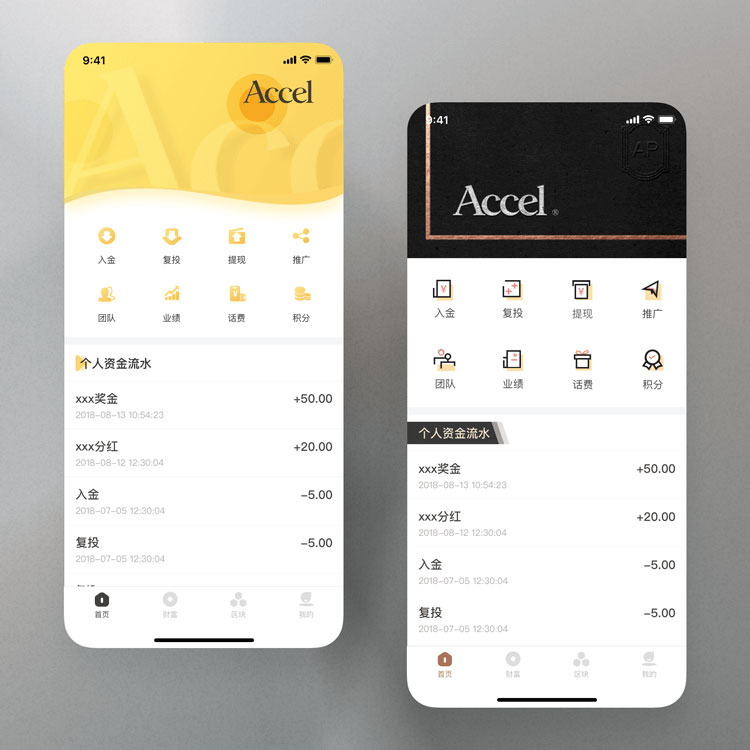
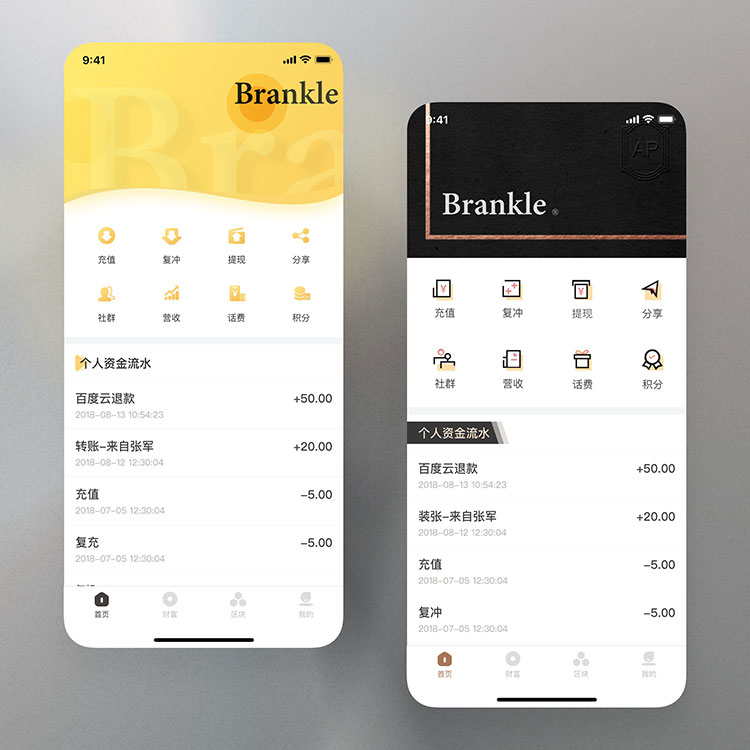
5

diff --git a/index.html b/index.html
@@ -192,16 +192,16 @@ font-weight:700;
                   </li>
                   
                                                       
-<!--                  <li class="slider--item slider--item-5">
+                  <li class="slider--item slider--item-5">
                     <a href="javascript:void(0)" onclick="show('light')">
                       <div class="slider--item-image">
                        <img src="assets/img/work-05.jpg" alt="Accel">
                       </div>
-                      <p class="slider--item-title">Accel</p>
-                      <p class="slider--item-description">Accel是一款金融投资理财产品，帮助普通人融资实现商业目标。</p>
+                      <p class="slider--item-title">Brankle</p>
+                      <p class="slider--item-description">Brankle是一款金融投资理财产品，帮助创业者融资实现商业目标。</p>
                     </a>
                   </li>
--->                                                                       
+                                                                       
                   <!--<li class="slider--item slider--item-6">
                     <a href="javascript:void(0)" onclick="show('light')">
                       <div class="slider--item-image">
